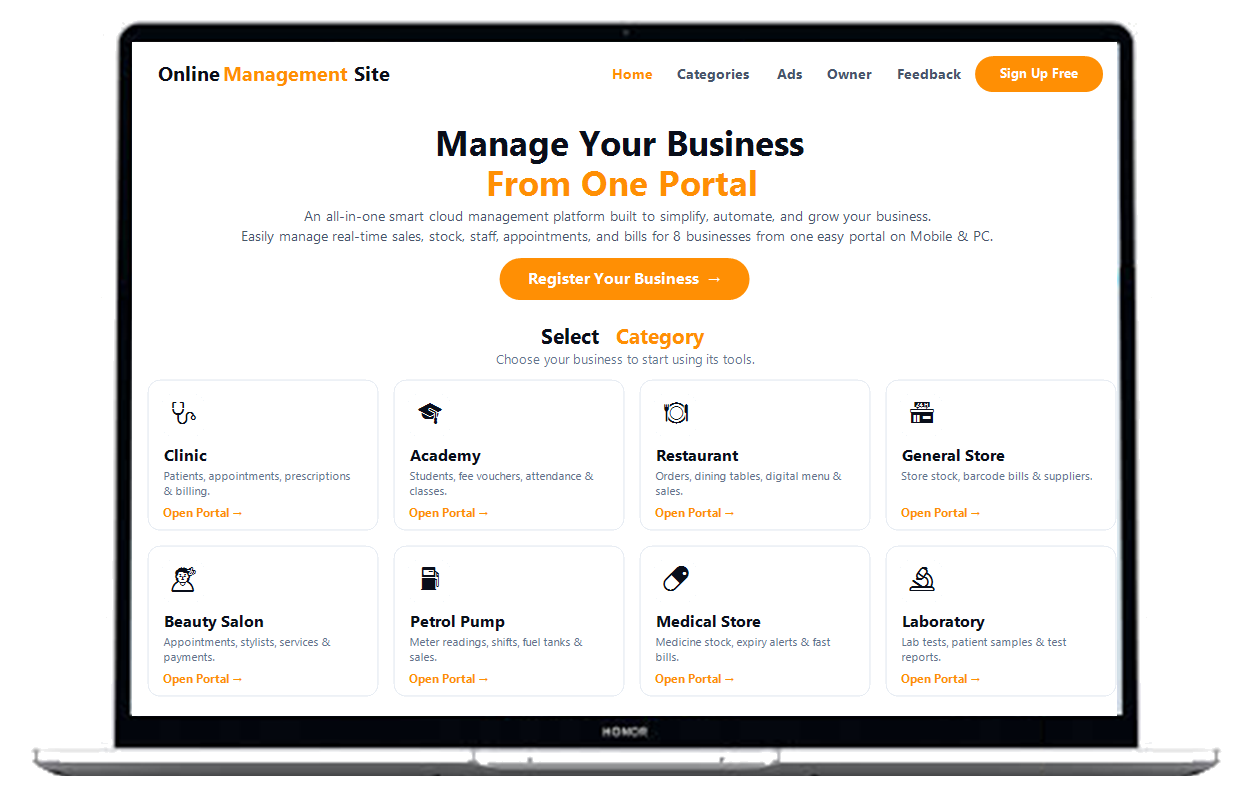
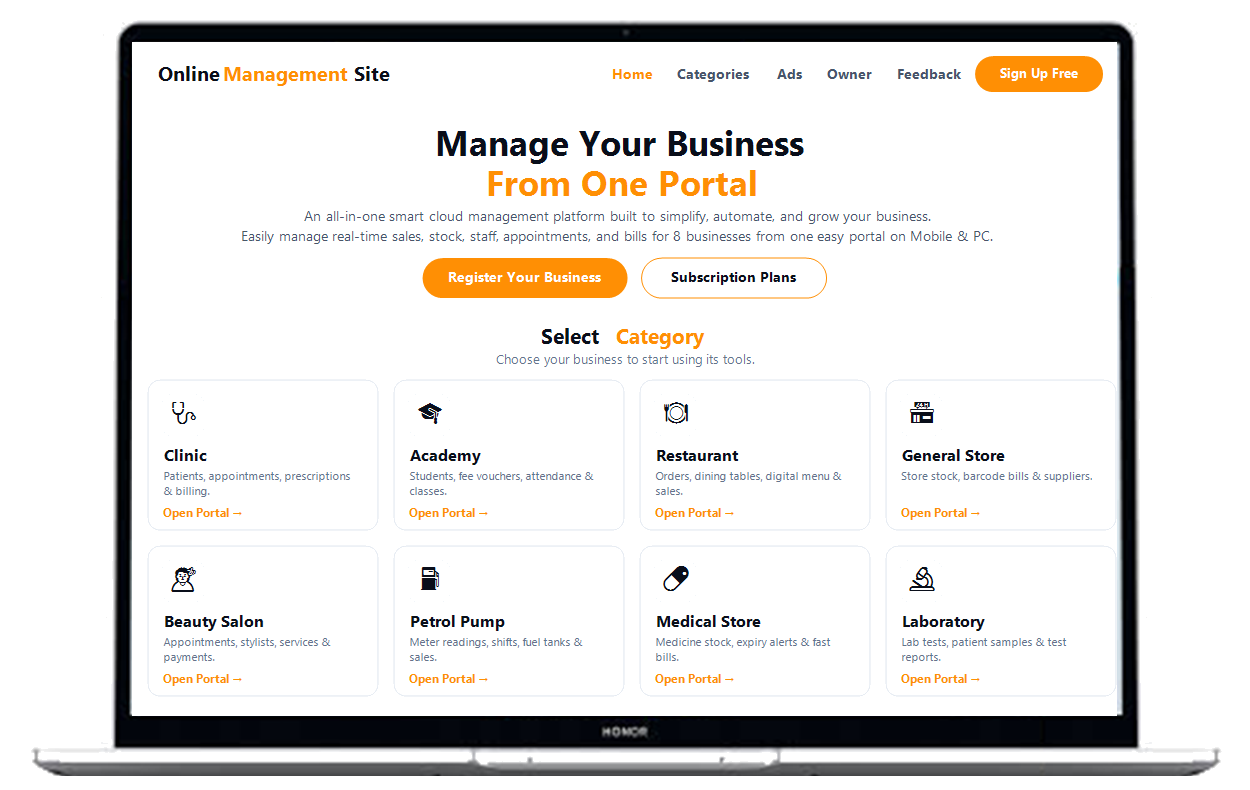
Add Subscription Plans button next to Register Your Business and remove arrows

Changed region(s): [[0.312, 0.3038, 0.6552, 0.3949]]

diff --git a/index.html b/index.html
@@ -70,13 +70,15 @@
             <div class="hero-ctas">
               <button type="button" class="hero-btn hero-btn-primary-action" id="openRegFormHero">
                 <span>Register Your Business</span>
-                <span class="hero-btn-arrow" aria-hidden="true">&rarr;</span>
+              </button>
+              <button type="button" class="hero-btn hero-btn-secondary-action" id="openPlansHero">
+                <span>Subscription Plans</span>
               </button>
             </div>
           </div>
           <div class="hero-col hero-col-right">
             <div class="hero-image-wrap">
-              <img src="devices.png?v=20261030CleanScreen" alt="Online Management Site open on Laptop" class="hero-devices-img" width="725" height="423" loading="eager" />
+              <img src="devices.png?v=20261030TwoButtons" alt="Online Management Site open on Laptop" class="hero-devices-img" width="725" height="423" loading="eager" />
             </div>
           </div>
         </div>
@@ -1505,7 +1507,7 @@
 
   <script src="https://cdn.jsdelivr.net/npm/@supabase/supabase-js@2"></script>
   <script src="feature-registry.js?v=20261023K"></script>
-  <script src="script.js?v=20261030J"></script>
+  <script src="script.js?v=20261030TwoButtons"></script>
   <script src="liveads.js?v=20261024b"></script>
   <script src="ui.js?v=20261023H"></script>
 

diff --git a/styles.css b/styles.css
@@ -418,7 +418,7 @@ h1, h2, h3, h4, .brand {
   flex-direction: row !important;
   align-items: center !important;
   gap: 0.9rem !important;
-  flex-wrap: nowrap !important;
+  flex-wrap: wrap !important;
   white-space: nowrap !important;
   margin-bottom: 1.6rem;
 }
@@ -464,17 +464,17 @@ h1, h2, h3, h4, .brand {
 
 .hero-btn-secondary-action {
   background: #ffffff;
-  color: #1e293b;
-  border: 1.5px solid #cbd5e1;
-  box-shadow: 0 4px 14px rgba(15, 23, 42, 0.04);
+  color: var(--ink);
+  border: 1.5px solid #ff8f04;
+  box-shadow: 0 4px 14px rgba(255, 143, 4, 0.12);
 }
 
 .hero-btn-secondary-action:hover {
-  background: #f8fafc;
-  border-color: #94a3b8;
-  color: #0f172a;
+  background: rgba(255, 143, 4, 0.08);
+  border-color: #ff8f04;
+  color: #ff8f04;
   transform: translateY(-2px);
-  box-shadow: 0 8px 22px rgba(15, 23, 42, 0.08);
+  box-shadow: 0 8px 22px rgba(255, 143, 4, 0.25);
 }
 
 .hero-trust-bar {

diff --git a/script.js b/script.js
@@ -4584,6 +4584,12 @@ const closeRegModal = () => {
 
 openRegFormBtn?.addEventListener("click", openRegModal);
 document.getElementById("openRegFormHero")?.addEventListener("click", openRegModal);
+document.getElementById("openPlansHero")?.addEventListener("click", () => {
+  openRegModal();
+  setTimeout(() => {
+    document.getElementById("planGrid")?.scrollIntoView({ behavior: "smooth", block: "center" });
+  }, 100);
+});
 regModalClose?.addEventListener("click", closeRegModal);
 regModal?.addEventListener("click", (e) => {
   if (e.target === regModal) closeRegModal();
